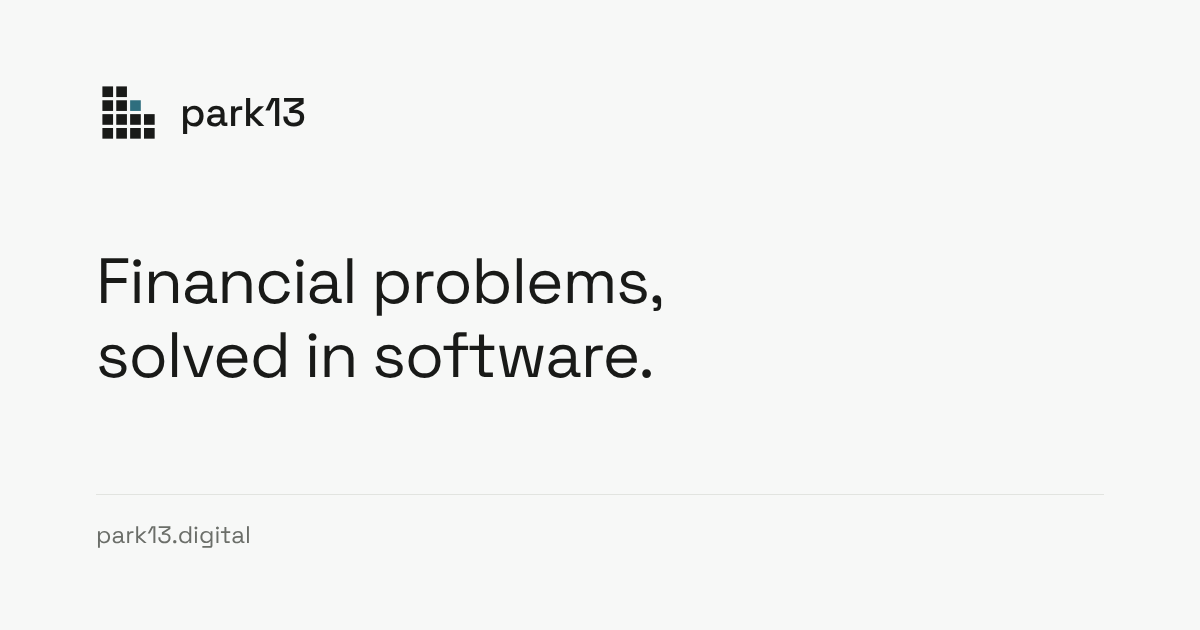
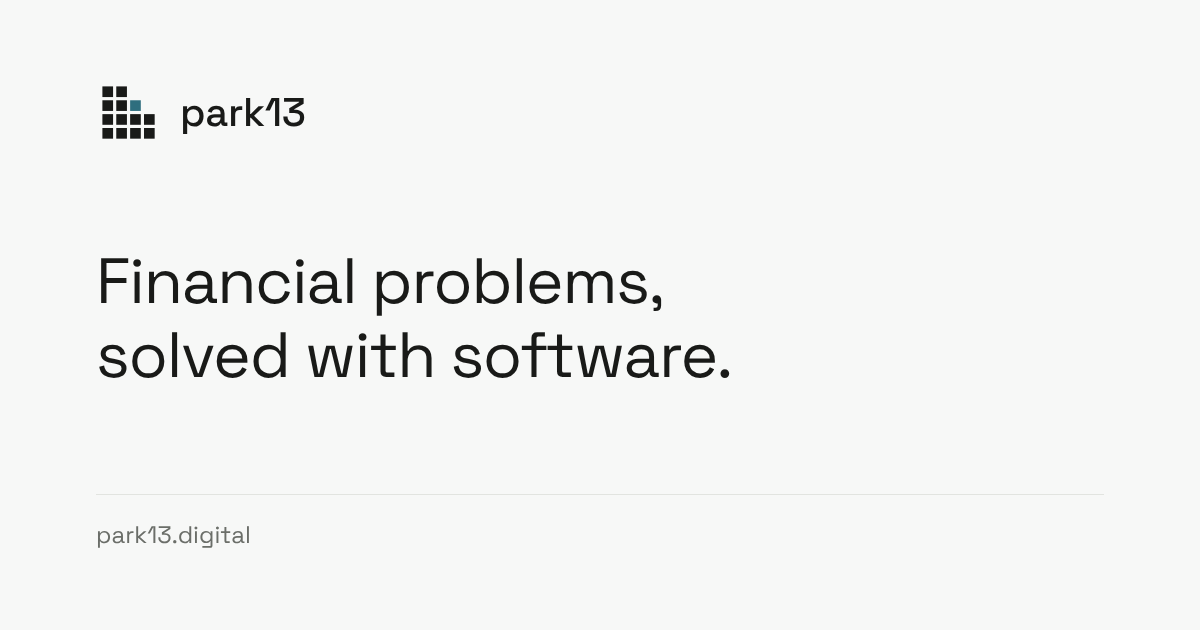
Tagline: solved with software
Claude-Session: https://claude.ai/code/session_01Vbk4jk6yrSpFm7waBvVJMa

Changed region(s): [[0.2467, 0.5127, 0.6167, 0.6032]]

diff --git a/en/index.html b/en/index.html
@@ -4,7 +4,7 @@
   <meta charset="utf-8">
   <meta name="viewport" content="width=device-width, initial-scale=1">
   <title>park13</title>
-  <meta name="description" content="park13 — Financial problems, solved in software. Specialist blockchain services available through our portfolio company, mini labo.">
+  <meta name="description" content="park13 — Financial problems, solved with software. Specialist blockchain services available through our portfolio company, mini labo.">
   <link rel="canonical" href="https://park13.digital/en/">
   <link rel="alternate" hreflang="en" href="https://park13.digital/en/">
   <link rel="alternate" hreflang="ja" href="https://park13.digital/">
@@ -16,7 +16,7 @@
   <meta property="og:locale:alternate" content="ja_JP">
   <meta property="og:url" content="https://park13.digital/en/">
   <meta property="og:title" content="park13">
-  <meta property="og:description" content="Financial problems, solved in software.">
+  <meta property="og:description" content="Financial problems, solved with software.">
   <meta property="og:site_name" content="park13">
   <meta property="og:image" content="https://park13.digital/assets/og.png">
   <meta property="og:image:width" content="1200">
@@ -24,7 +24,7 @@
   <meta name="twitter:card" content="summary_large_image">
   <meta name="twitter:image" content="https://park13.digital/assets/og.png">
   <meta name="twitter:title" content="park13">
-  <meta name="twitter:description" content="Financial problems, solved in software.">
+  <meta name="twitter:description" content="Financial problems, solved with software.">
   <link rel="icon" href="/assets/favicon.svg" type="image/svg+xml">
   <link rel="preconnect" href="https://fonts.googleapis.com">
   <link rel="preconnect" href="https://fonts.gstatic.com" crossorigin>
@@ -39,7 +39,7 @@
     "url": "https://park13.digital/",
     "logo": "https://park13.digital/assets/mark.svg",
     "email": "contact@park13.digital",
-    "description": "Financial problems, solved in software. Specialist blockchain services are available through portfolio company mini labo.",
+    "description": "Financial problems, solved with software. Specialist blockchain services are available through portfolio company mini labo.",
     "address": {
       "@type": "PostalAddress",
       "addressLocality": "Tokyo",
@@ -72,7 +72,7 @@
     </header>
 
     <main>
-      <h1>Financial problems, solved in software.</h1>
+      <h1>Financial problems, solved with software.</h1>
       <p class="sub">Specialist blockchain services available through our portfolio company, <a href="https://mini-labo.org/">mini labo</a>.</p>
     </main>
 

diff --git a/index.html b/index.html
@@ -39,7 +39,7 @@
     "url": "https://park13.digital/",
     "logo": "https://park13.digital/assets/mark.svg",
     "email": "contact@park13.digital",
-    "description": "Financial problems, solved in software. Specialist blockchain services are available through portfolio company mini labo.",
+    "description": "Financial problems, solved with software. Specialist blockchain services are available through portfolio company mini labo.",
     "address": {
       "@type": "PostalAddress",
       "addressLocality": "Tokyo",

diff --git a/README.md b/README.md
@@ -1,6 +1,6 @@
 # park13.digital
 
-Single-page site for **park13** (Park13 K.K.) — financial problems, solved in software. Specialist blockchain services are available through portfolio company [mini labo](https://mini-labo.org/).
+Single-page site for **park13** (Park13 K.K.) — financial problems, solved with software. Specialist blockchain services are available through portfolio company [mini labo](https://mini-labo.org/).
 
 ## Structure
 
